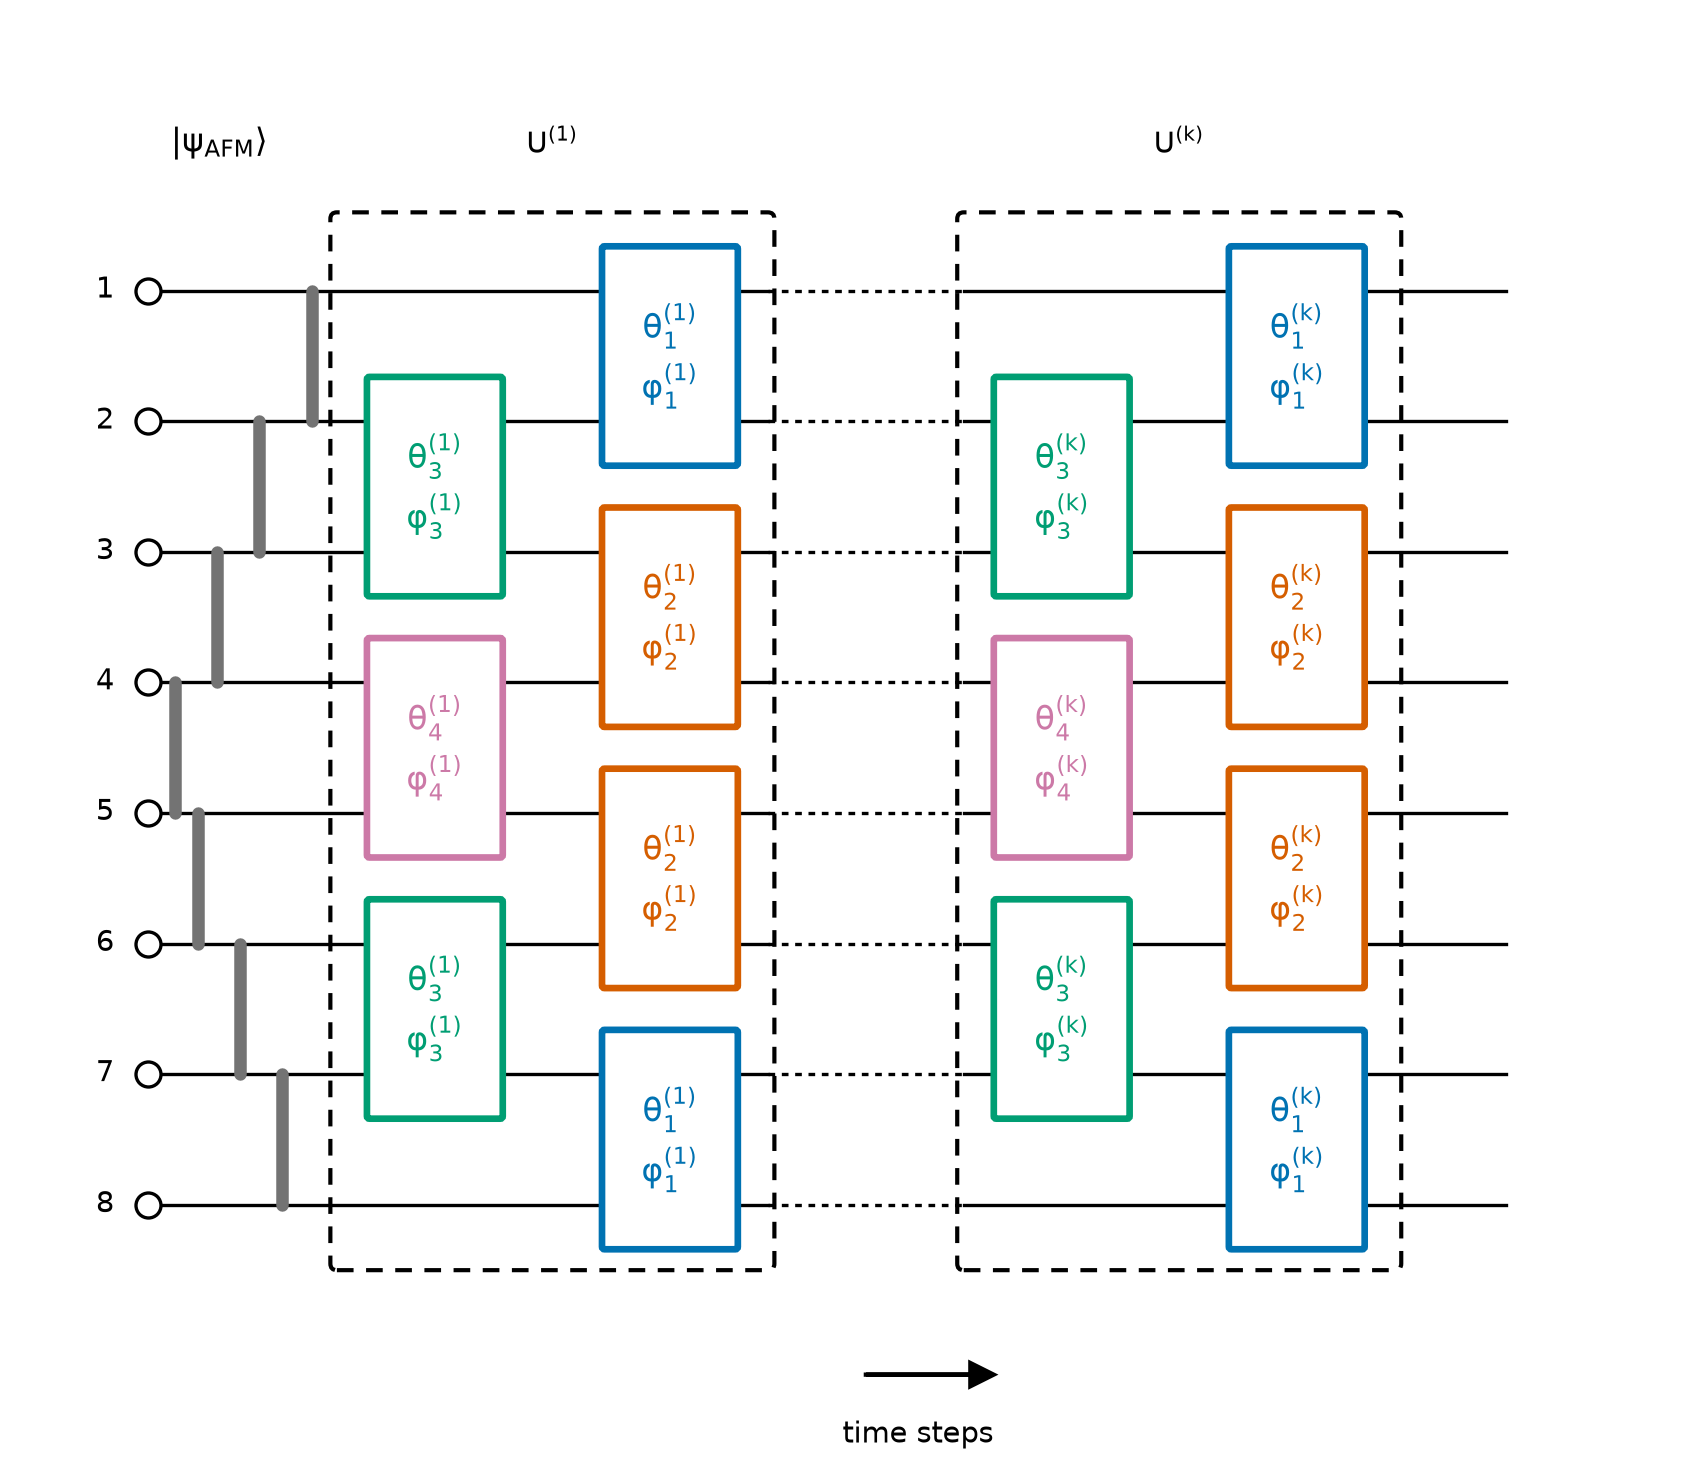
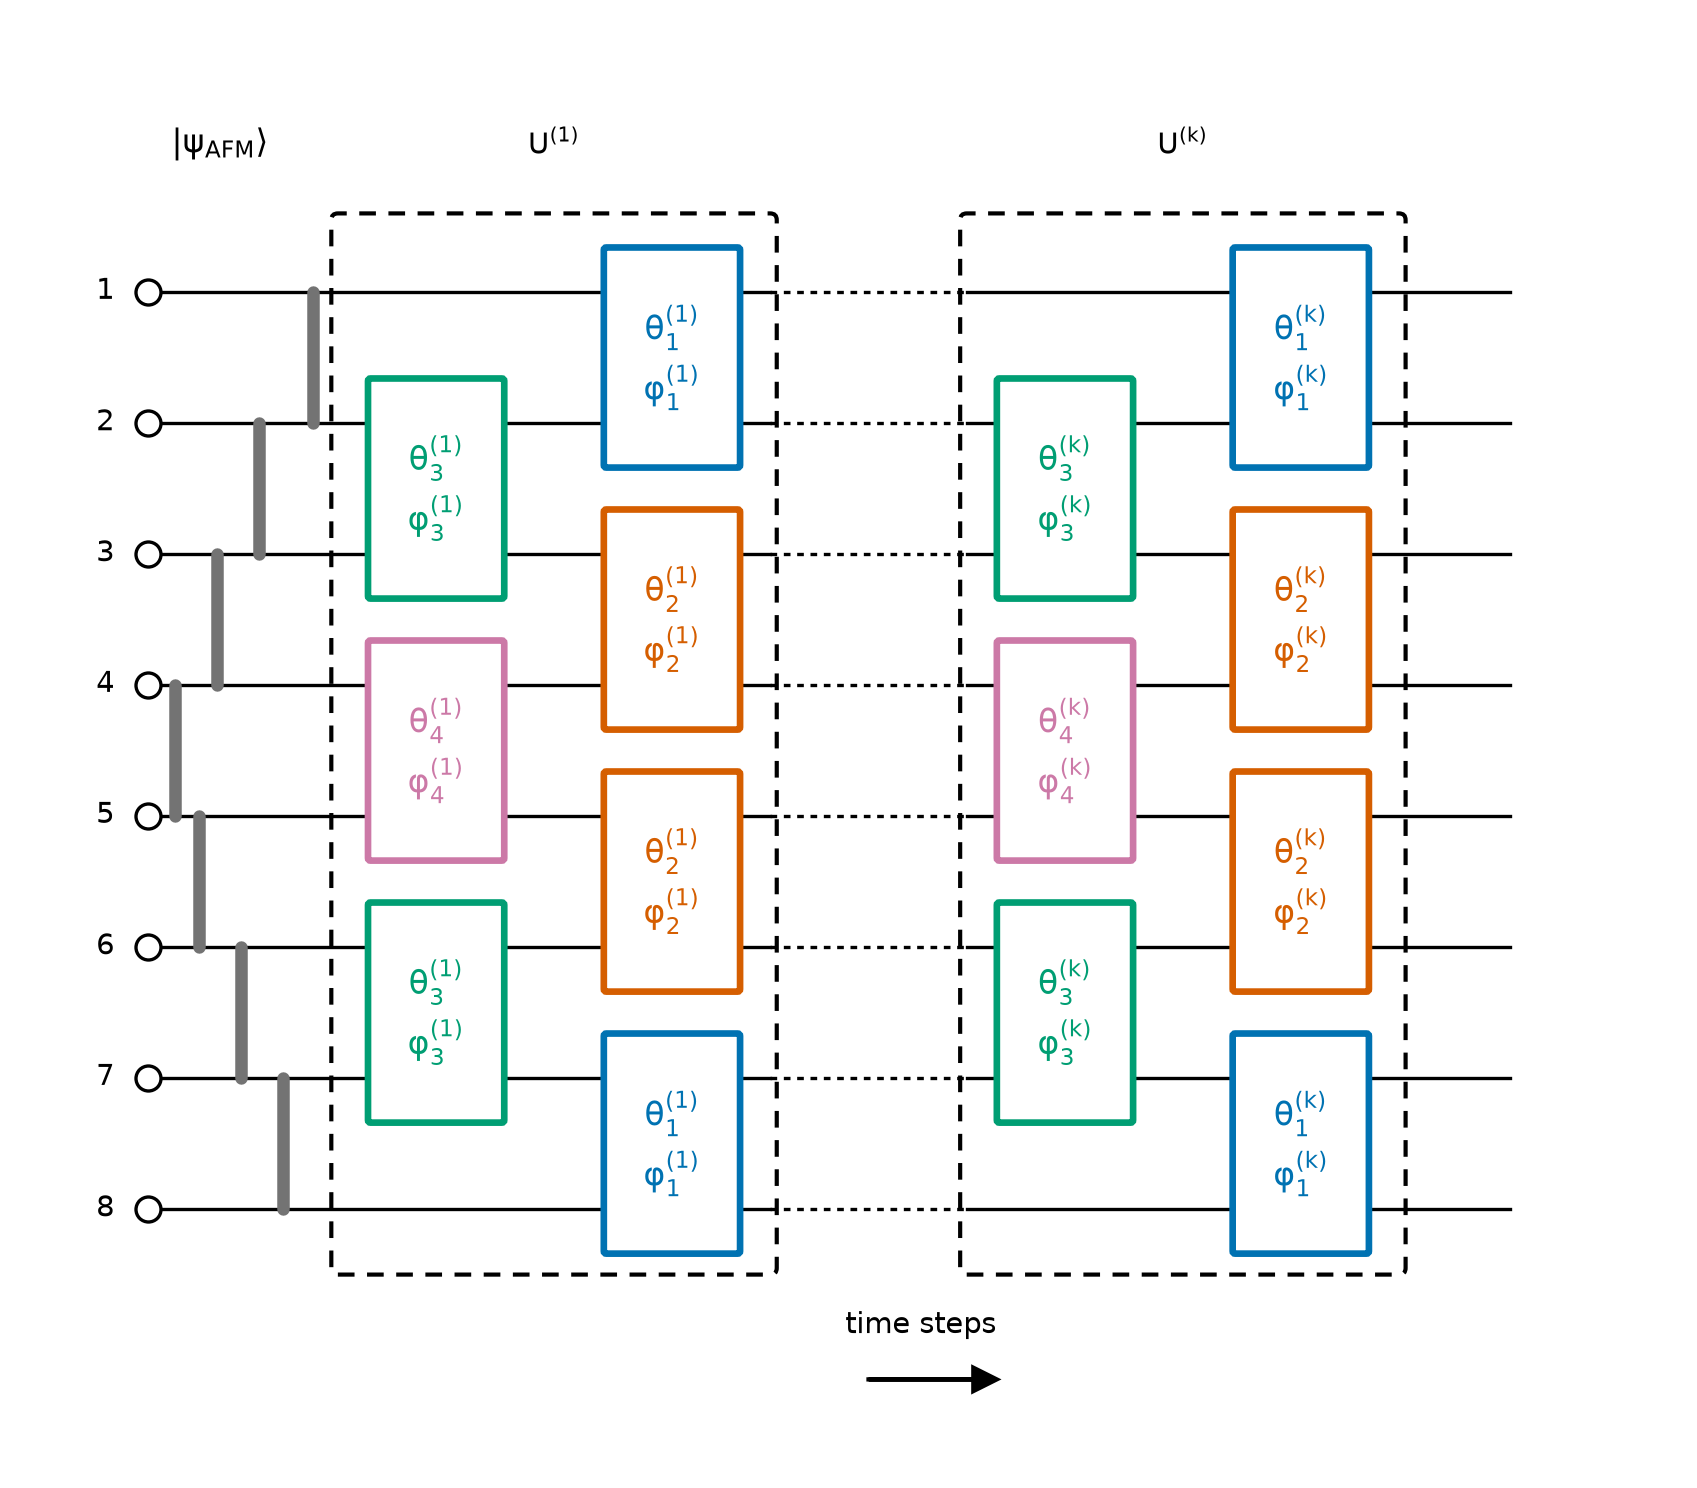
time steps标注改箭头上方

diff --git a/scripts/plot_D06.py b/scripts/plot_D06.py
@@ -62,7 +62,7 @@ def draw_wires(ax, x0=0.0, x1=10.4):
                 va="center", fontsize=7)
     ax.arrow(5.5, -1.3, 0.8, 0, head_width=0.18, head_length=0.18,
              fc="black", ec="black")
-    ax.text(5.9, -1.65, "time steps", ha="center", va="top", fontsize=7)
+    ax.text(5.9, -1.0, "time steps", ha="center", va="bottom", fontsize=7)
 
 
 def link_bar(ax, a, b, x):
